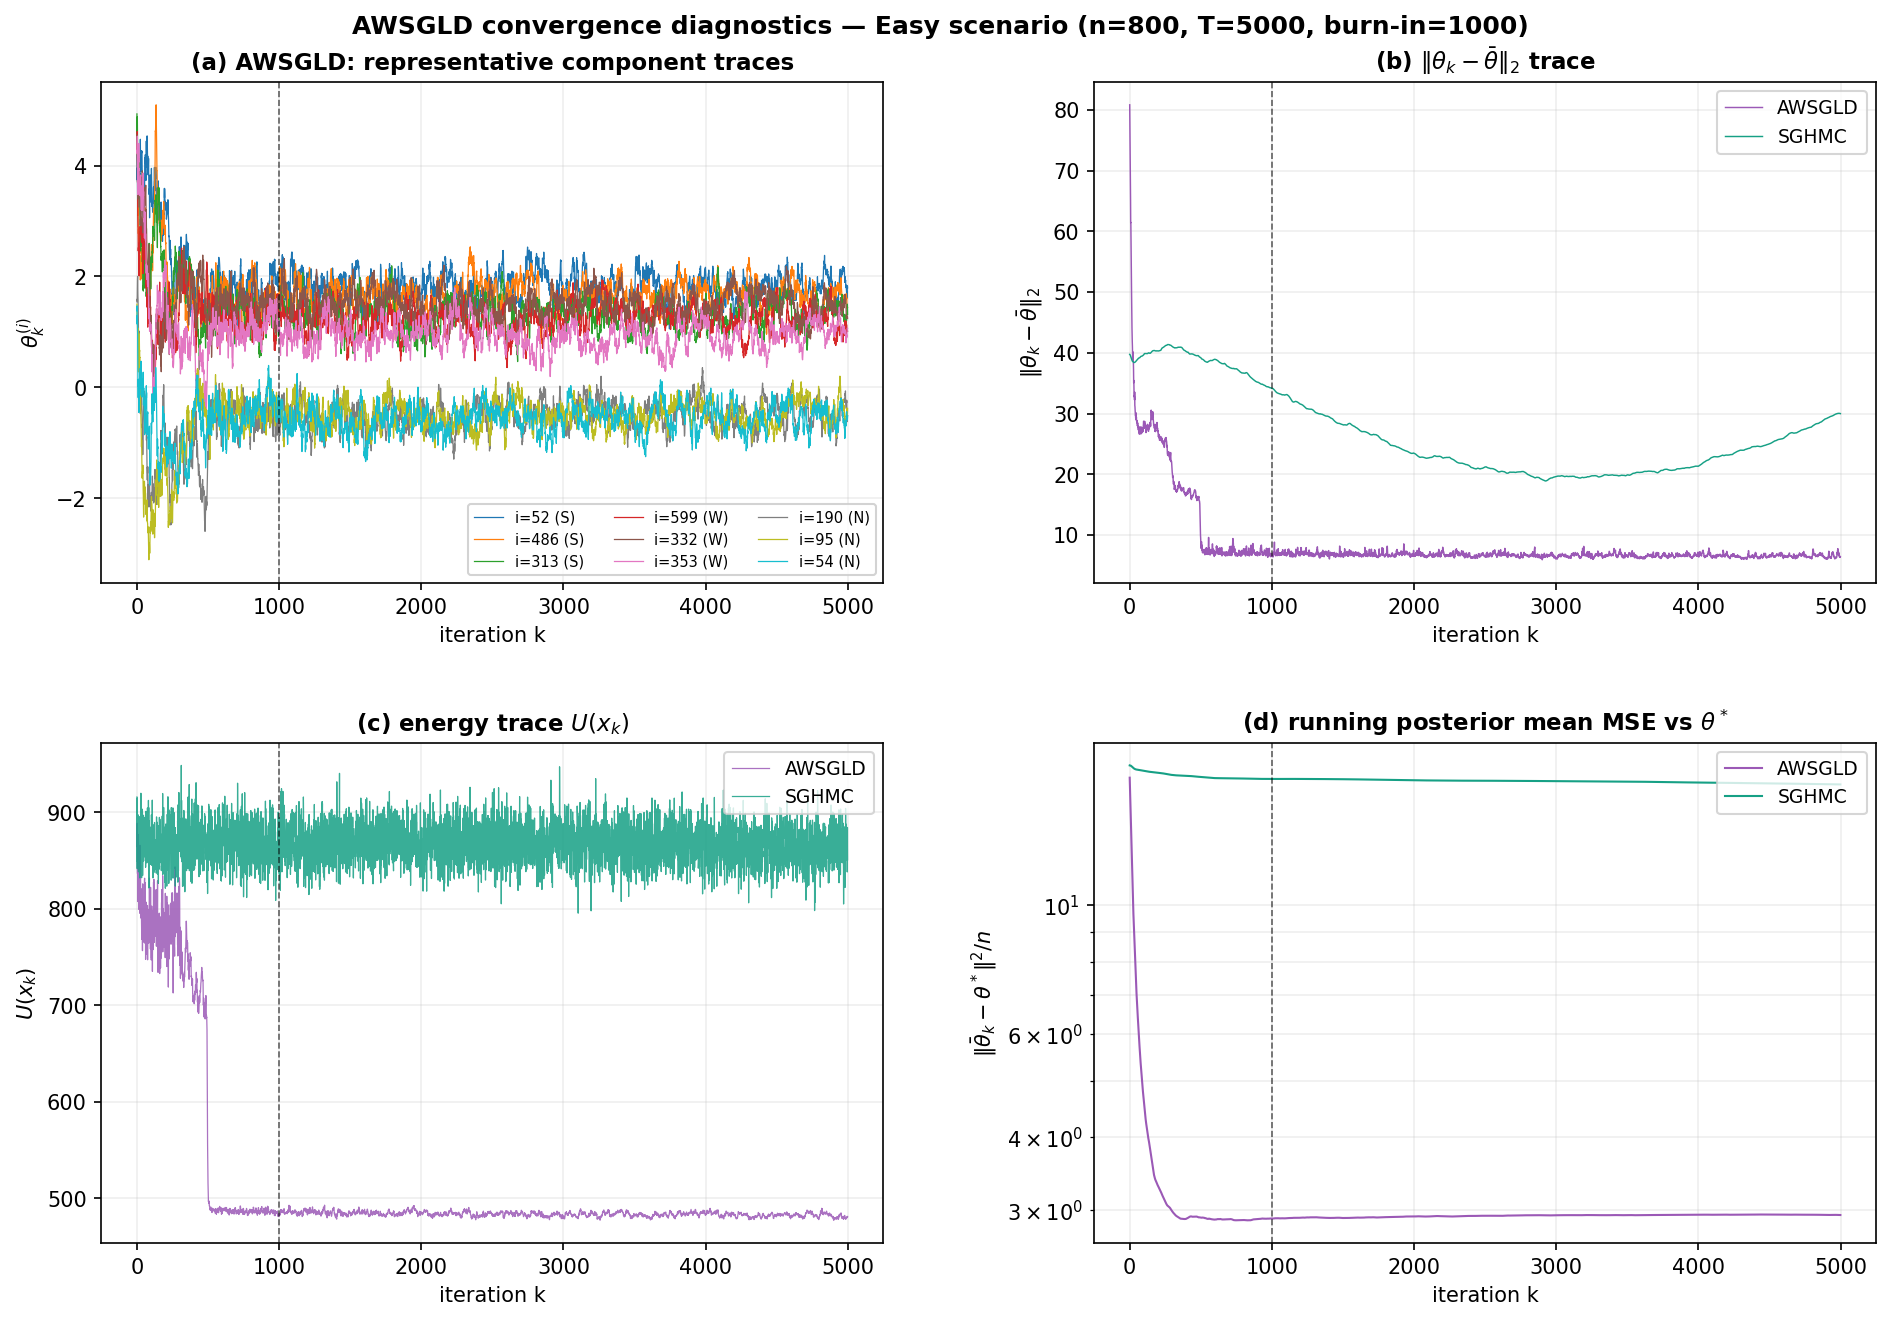
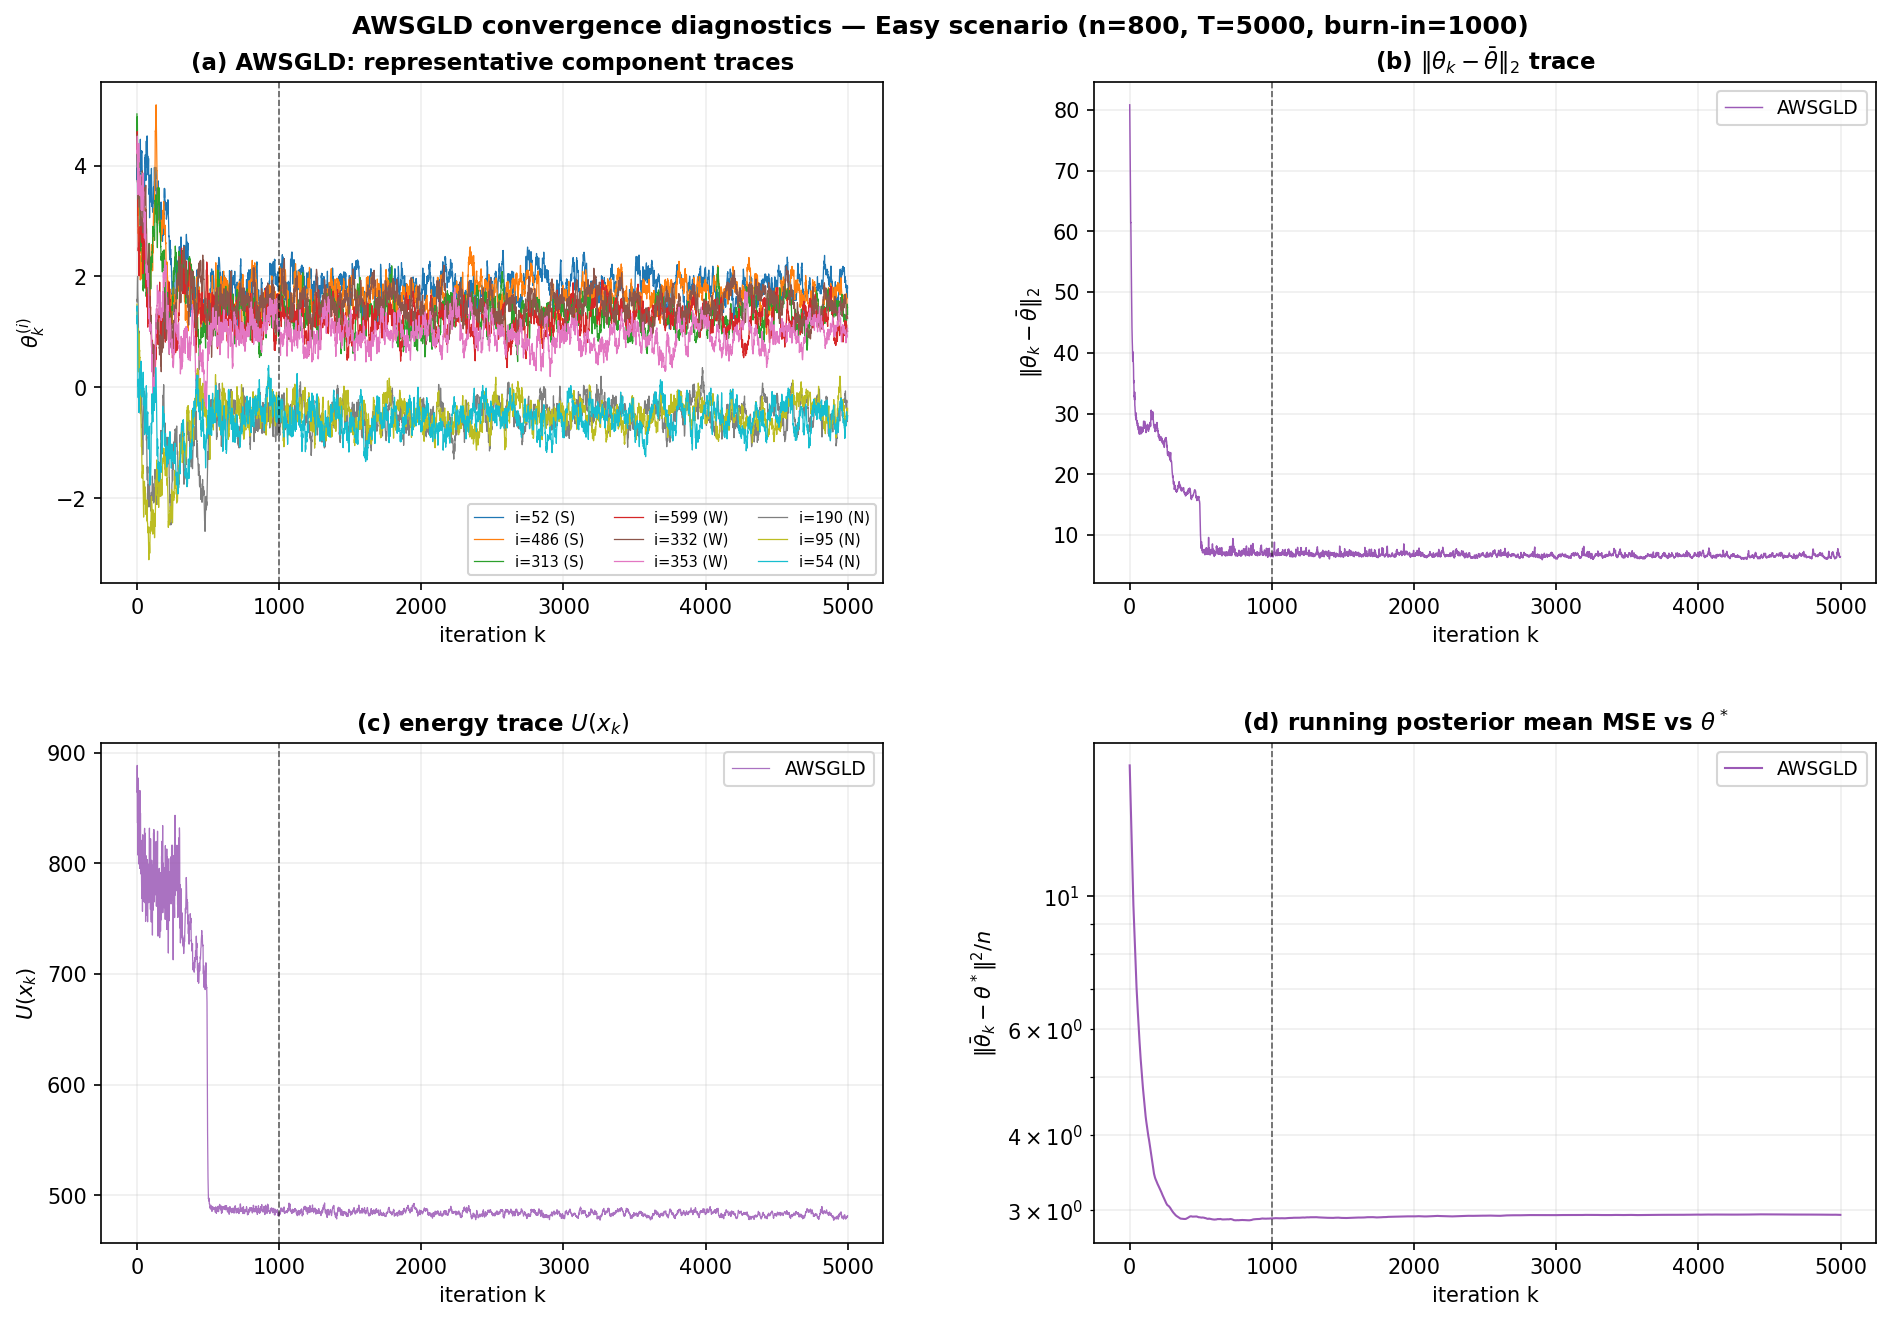
exp: Study 2 AWSGLD 수렴 진단 플롯 갱신

diff --git a/simulation/study_2/awsgld_convergence.py b/simulation/study_2/awsgld_convergence.py
@@ -161,10 +161,11 @@ def sample_theta_star(group, scenario, rng):
 
 
 def generate_labels(theta_star, alpha_true, rng):
-    pi_star = (1.0 - alpha_true) * inv_logit(theta_star)
-    pi_star = np.clip(pi_star, 1e-10, 1 - 1e-10)
-    Y = rng.binomial(1, pi_star).astype(float)
-    return Y, pi_star
+    # p_obs = Pr(y_i=1) = (1-alpha)*sigmoid(theta) — 관측 확률이며 논문의 pi_i 자체 아님.
+    p_obs = (1.0 - alpha_true) * inv_logit(theta_star)
+    p_obs = np.clip(p_obs, 1e-10, 1 - 1e-10)
+    Y = rng.binomial(1, p_obs).astype(float)
+    return Y, p_obs   # 두 번째 반환값은 관측 확률(p_obs)이며 논문의 pi_i 가 아님
 
 
 def build_B(graph):
@@ -396,7 +397,7 @@ def plot_convergence(awsgld_res, theta_star, group, B, Y, u_0, out_path, scenari
 # ---------------------------------------------------------------------
 # Main.
 # ---------------------------------------------------------------------
-def run_one_scenario(key, out_dir):
+def run_one_scenario(key, out_dir, awsgld_only=False):
     global BLOCK_PROBS
     cfg = SCENARIOS[key]
     scenario = cfg["scenario"]
@@ -404,7 +405,8 @@ def run_one_scenario(key, out_dir):
     out_path = os.path.join(out_dir, f"awsgld_convergence_{key}.png")
 
     print("=" * 72)
-    print(f"{key} ({scenario['name']}) convergence diagnostics | T={T}, burn-in={BURN_IN}")
+    print(f"{key} ({scenario['name']}) convergence diagnostics | T={T}, burn-in={BURN_IN}"
+          + (" | AWSGLD-only" if awsgld_only else ""))
     print("=" * 72)
 
     rng = np.random.default_rng(SEED)
@@ -419,9 +421,12 @@ def run_one_scenario(key, out_dir):
     awsgld_res = run_awsgld_with_traces(graph, Y, init_state)
     print(f"AWSGLD done in {time.perf_counter() - t0:.1f}s")
 
-    t0 = time.perf_counter()
-    sghmc_res = run_sghmc_with_traces(graph, Y, init_state)
-    print(f"SGHMC done in {time.perf_counter() - t0:.1f}s")
+    # AWSGLD-only 모드: SGHMC 오버레이 생략 → 그림에 AWSGLD 곡선만 표시.
+    sghmc_res = None
+    if not awsgld_only:
+        t0 = time.perf_counter()
+        sghmc_res = run_sghmc_with_traces(graph, Y, init_state)
+        print(f"SGHMC done in {time.perf_counter() - t0:.1f}s")
 
     plot_convergence(
         awsgld_res, theta_star, graph["group"],
@@ -433,13 +438,16 @@ def run_one_scenario(key, out_dir):
 def main():
     out_dir = os.path.dirname(os.path.abspath(__file__))
     # CLI: pick scenarios by name; default = all three.
-    args = [a.lower() for a in sys.argv[1:]]
+    # 플래그 --awsgld-only : SGHMC 오버레이 없이 AWSGLD 곡선만 출력.
+    raw = [a.lower() for a in sys.argv[1:]]
+    awsgld_only = "--awsgld-only" in raw
+    args = [a for a in raw if not a.startswith("--")]
     keys = args if args else ["easy", "moderate", "difficult"]
     for key in keys:
         if key not in SCENARIOS:
             print(f"[skip] unknown scenario '{key}' (choices: {list(SCENARIOS)})")
             continue
-        run_one_scenario(key, out_dir)
+        run_one_scenario(key, out_dir, awsgld_only=awsgld_only)
 
 
 if __name__ == "__main__":
